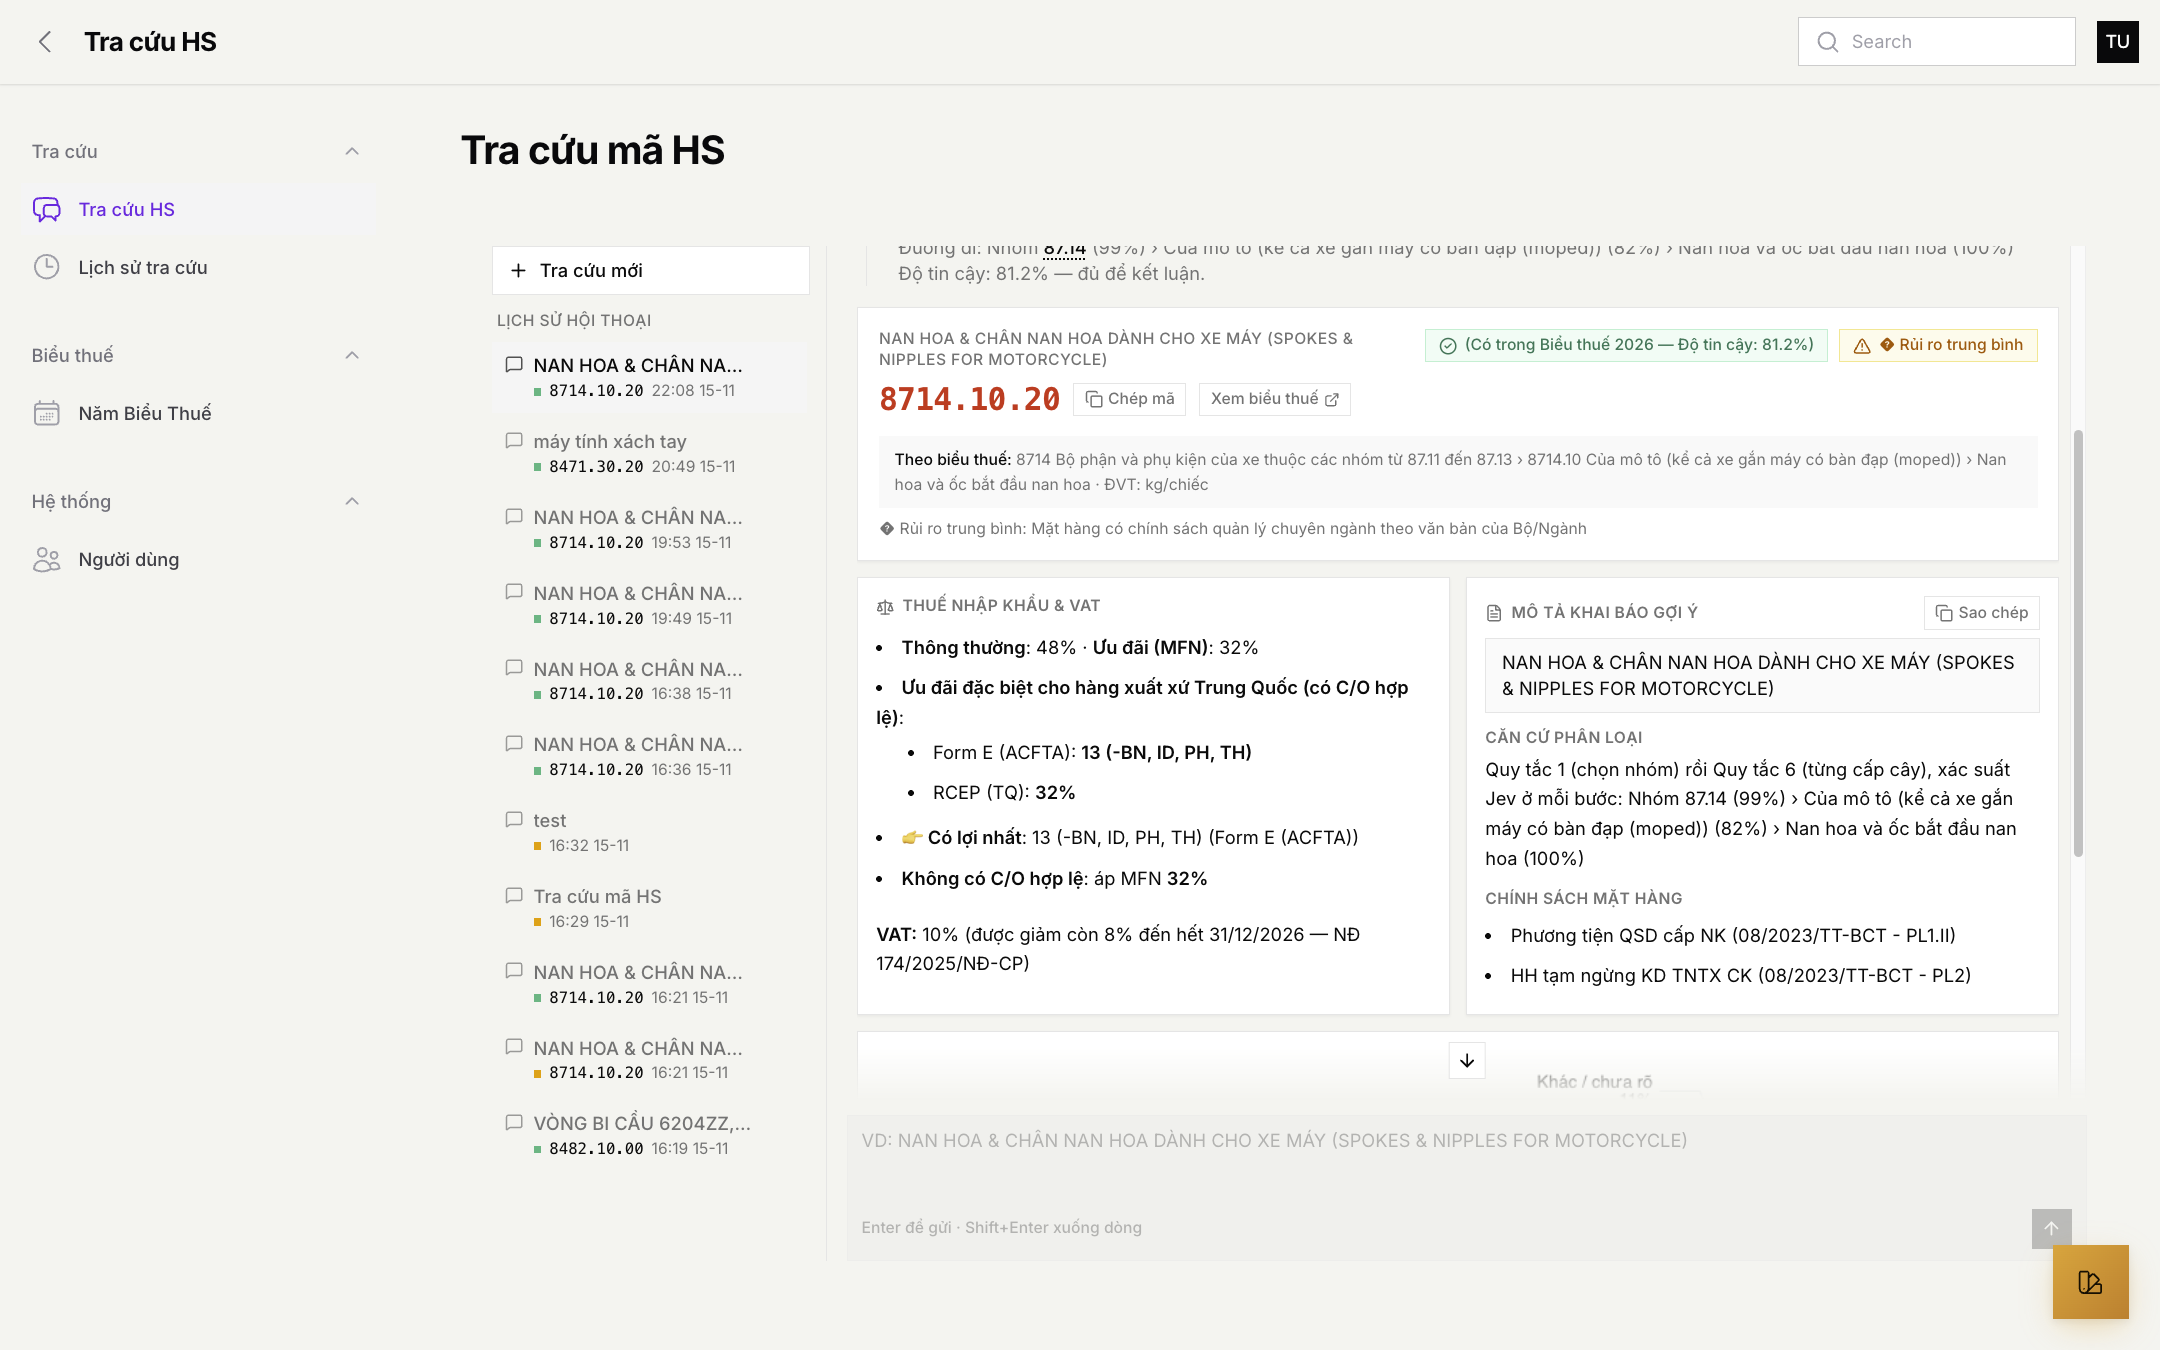
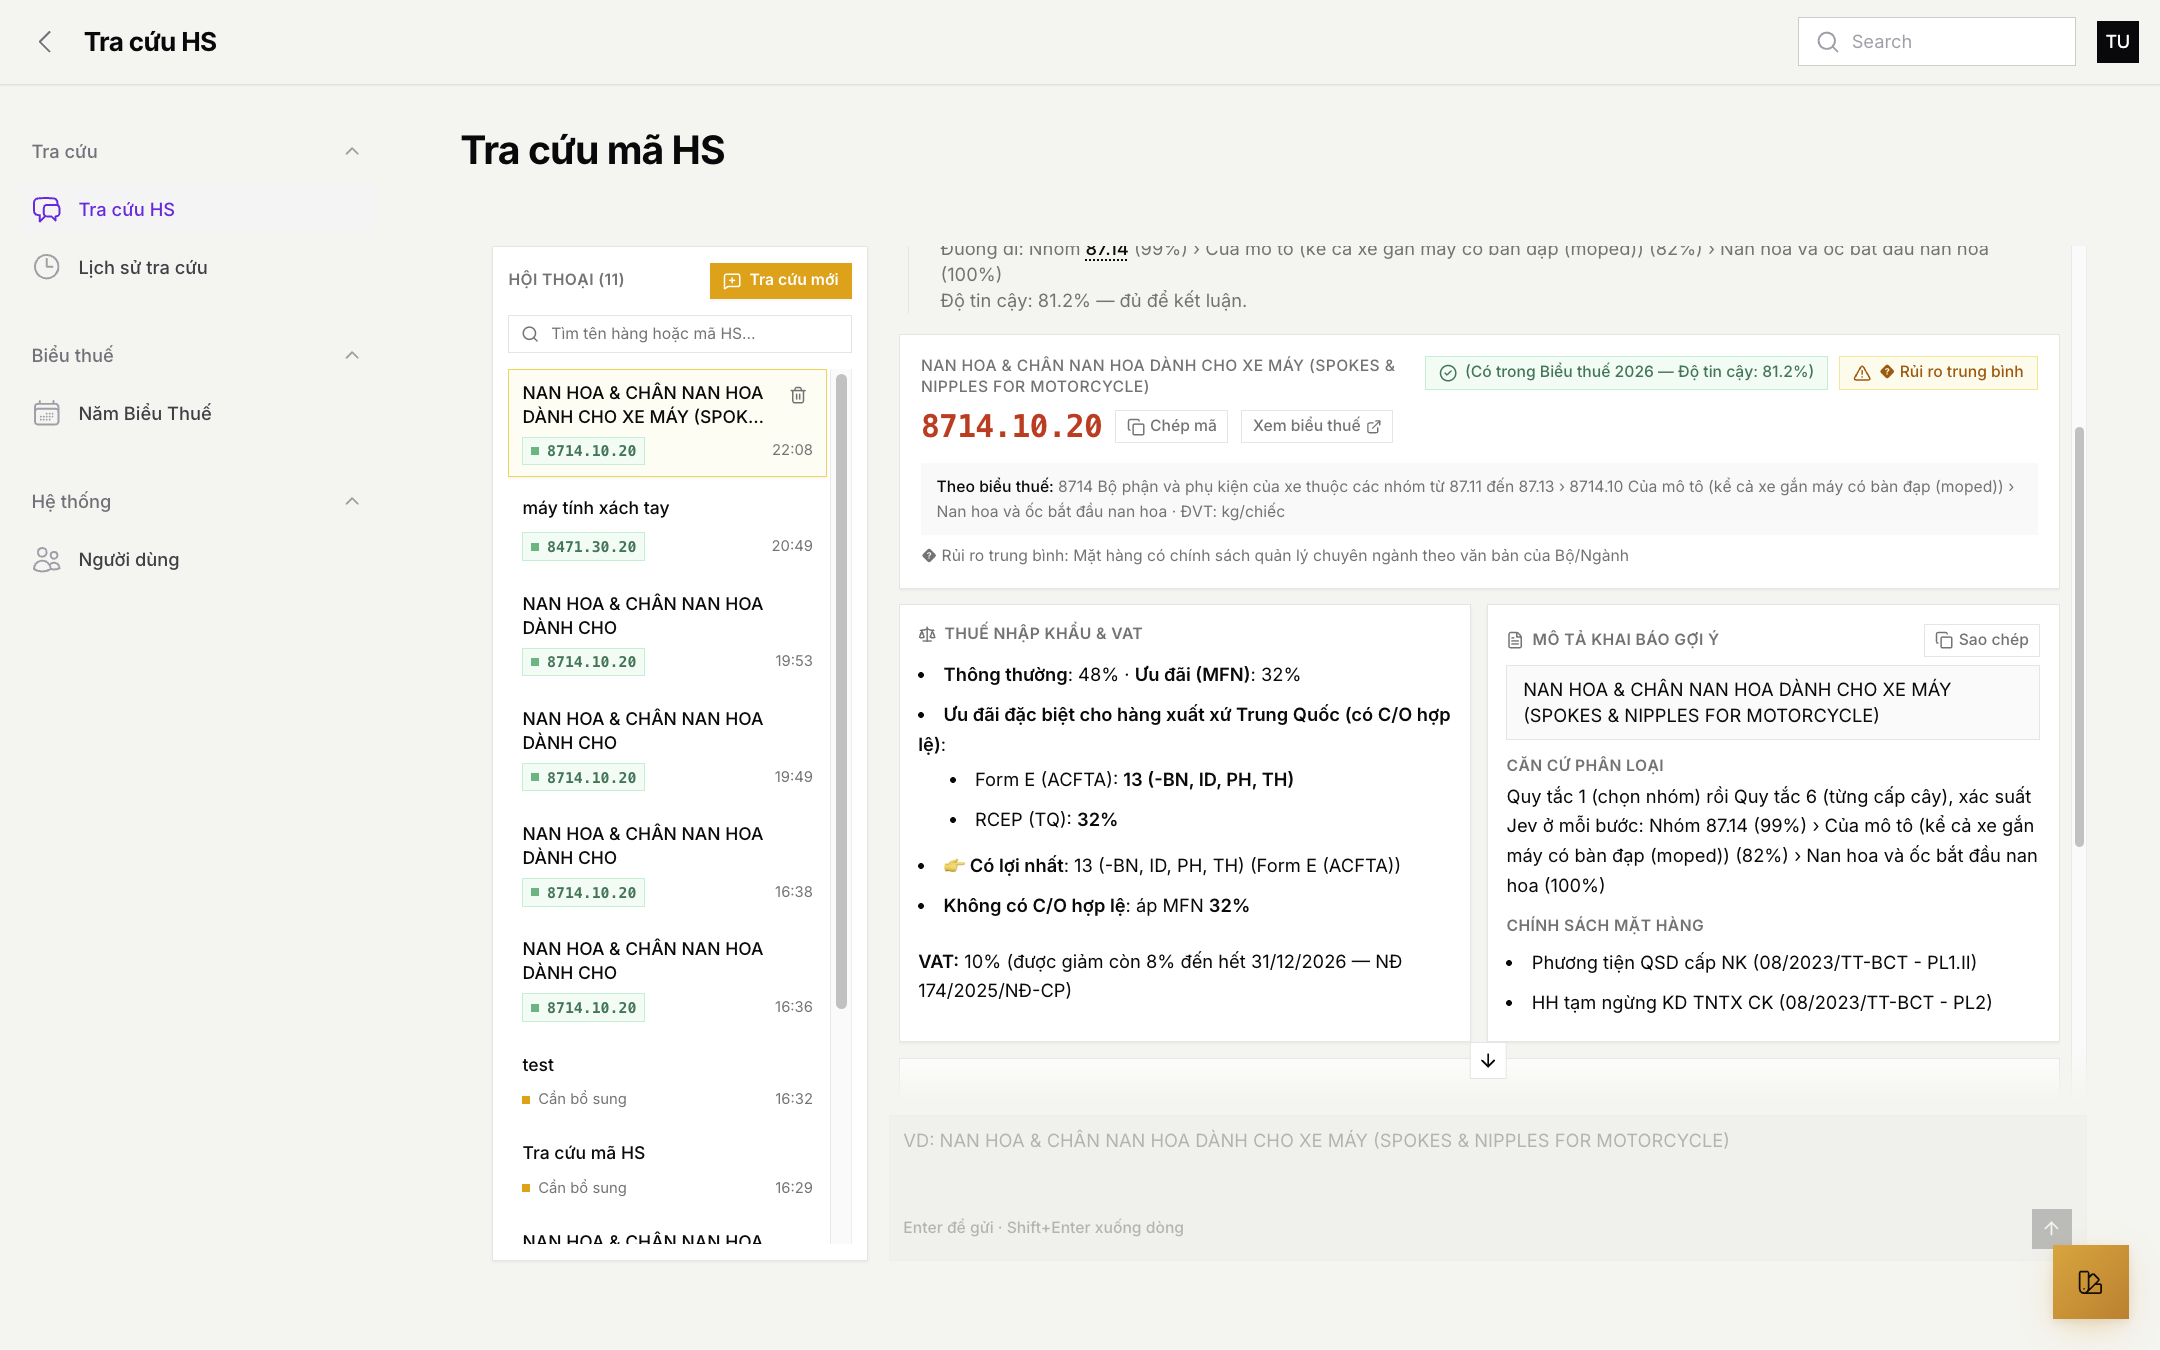
Polish conversation sidebar UI and update README screenshot

diff --git a/admin/resources/js/components/tra-cuu/conversation-sidebar.tsx b/admin/resources/js/components/tra-cuu/conversation-sidebar.tsx
@@ -1,13 +1,30 @@
-import { MessageSquareIcon, PlusIcon, Trash2Icon } from "lucide-react";
+import { useMemo, useState } from "react";
+import {
+    MessageSquarePlusIcon,
+    SearchIcon,
+    Trash2Icon,
+} from "lucide-react";
 import type { ConversationSummary } from "./types";
 
-const STATUS_DOT: Record<ConversationSummary["status"], string> = {
-    ok: "bg-emerald-500",
-    can_bo_sung: "bg-amber-500",
-    error: "bg-destructive",
+const STATUS_META: Record<
+    ConversationSummary["status"],
+    { dot: string; badge: string }
+> = {
+    ok: {
+        dot: "bg-emerald-500",
+        badge: "border-emerald-200 bg-emerald-50 text-emerald-700 dark:border-emerald-900/60 dark:bg-emerald-950/40 dark:text-emerald-300",
+    },
+    can_bo_sung: {
+        dot: "bg-amber-500",
+        badge: "border-amber-200 bg-amber-50 text-amber-700 dark:border-amber-900/60 dark:bg-amber-950/40 dark:text-amber-300",
+    },
+    error: {
+        dot: "bg-red-500",
+        badge: "border-red-200 bg-red-50 text-red-700 dark:border-red-900/60 dark:bg-red-950/40 dark:text-red-300",
+    },
 };
 
-function formatShortTime(iso: string | null): string {
+function formatTime(iso: string | null): string {
     if (!iso) {
         return "";
     }
@@ -15,11 +32,22 @@ function formatShortTime(iso: string | null): string {
     if (Number.isNaN(date.getTime())) {
         return "";
     }
-    return date.toLocaleString("vi-VN", {
+    const now = new Date();
+    const sameDay =
+        date.getFullYear() === now.getFullYear() &&
+        date.getMonth() === now.getMonth() &&
+        date.getDate() === now.getDate();
+
+    if (sameDay) {
+        return date.toLocaleTimeString("vi-VN", {
+            hour: "2-digit",
+            minute: "2-digit",
+        });
+    }
+
+    return date.toLocaleDateString("vi-VN", {
         day: "2-digit",
         month: "2-digit",
-        hour: "2-digit",
-        minute: "2-digit",
     });
 }
 
@@ -38,34 +66,63 @@ export function ConversationSidebar({
     onSelect: (id: string) => void;
     onDelete: (id: string) => void;
 }) {
-    return (
-        <aside className="flex w-64 shrink-0 flex-col gap-2 border-r border-border pr-3 max-md:hidden">
-            <button
-                type="button"
-                onClick={onNewChat}
-                className="flex w-full items-center gap-2 rounded-lg border border-border bg-background px-3 py-2 text-sm font-medium text-foreground transition hover:bg-muted"
-            >
-                <PlusIcon className="size-4 shrink-0" />
-                <span>Tra cứu mới</span>
-            </button>
+    const [query, setQuery] = useState("");
 
-            <div className="px-1 pt-1 text-xs font-medium uppercase tracking-wide text-muted-foreground">
-                Lịch sử hội thoại
+    const filtered = useMemo(() => {
+        const q = query.trim().toLowerCase();
+        if (!q) {
+            return conversations;
+        }
+        return conversations.filter(
+            (item) =>
+                item.title.toLowerCase().includes(q) ||
+                (item.ma_hs && item.ma_hs.toLowerCase().includes(q)),
+        );
+    }, [conversations, query]);
+
+    return (
+        <aside className="flex w-72 shrink-0 flex-col gap-3 rounded-xl border border-border bg-card p-3 shadow-xs max-md:hidden">
+            <div className="flex items-center justify-between gap-2">
+                <span className="text-xs font-semibold uppercase tracking-wide text-muted-foreground">
+                    Hội thoại ({conversations.length})
+                </span>
+                <button
+                    type="button"
+                    onClick={onNewChat}
+                    className="inline-flex items-center gap-1.5 rounded-lg bg-amber-500 px-2.5 py-1.5 text-xs font-semibold text-white shadow-xs transition hover:bg-amber-600"
+                >
+                    <MessageSquarePlusIcon className="size-3.5" />
+                    <span>Tra cứu mới</span>
+                </button>
             </div>
 
-            <div className="flex-1 space-y-1 overflow-y-auto pr-0.5">
+            <div className="relative">
+                <SearchIcon className="pointer-events-none absolute left-2.5 top-1/2 size-3.5 -translate-y-1/2 text-muted-foreground" />
+                <input
+                    type="search"
+                    value={query}
+                    onChange={(event) => setQuery(event.target.value)}
+                    placeholder="Tìm tên hàng hoặc mã HS…"
+                    className="w-full rounded-lg border border-border bg-background py-1.5 pl-8 pr-2.5 text-xs text-foreground placeholder:text-muted-foreground focus:border-amber-500 focus:outline-none"
+                />
+            </div>
+
+            <div className="flex-1 space-y-1.5 overflow-y-auto pr-0.5">
                 {loading && conversations.length === 0 && (
-                    <p className="px-2 py-4 text-xs text-muted-foreground">
+                    <p className="px-2 py-6 text-center text-xs text-muted-foreground">
                         Đang tải…
                     </p>
                 )}
-                {!loading && conversations.length === 0 && (
-                    <p className="px-2 py-4 text-xs text-muted-foreground">
-                        Chưa có cuộc hội thoại nào.
+                {!loading && filtered.length === 0 && (
+                    <p className="px-2 py-6 text-center text-xs text-muted-foreground">
+                        {query.trim()
+                            ? "Không tìm thấy hội thoại phù hợp."
+                            : "Chưa có cuộc hội thoại nào."}
                     </p>
                 )}
-                {conversations.map((item) => {
+                {filtered.map((item) => {
                     const isActive = item.id === activeId;
+                    const status = STATUS_META[item.status];
                     return (
                         <div
                             key={item.id}
@@ -78,43 +135,54 @@ export function ConversationSidebar({
                                     onSelect(item.id);
                                 }
                             }}
-                            className={`group flex cursor-pointer items-start gap-2 rounded-lg px-2.5 py-2 text-left transition ${
+                            className={`group relative cursor-pointer rounded-lg border px-2.5 py-2 transition ${
                                 isActive
-                                    ? "bg-muted text-foreground"
-                                    : "text-muted-foreground hover:bg-muted/60 hover:text-foreground"
+                                    ? "border-amber-300 bg-amber-50/70 shadow-xs dark:border-amber-700/60 dark:bg-amber-950/30"
+                                    : "border-transparent hover:border-border hover:bg-muted/50"
                             }`}
                         >
-                            <MessageSquareIcon className="mt-0.5 size-3.5 shrink-0 opacity-70" />
-                            <div className="min-w-0 flex-1">
-                                <div className="truncate text-sm font-medium">
+                            <div className="flex items-start justify-between gap-2">
+                                <div className="line-clamp-2 text-[13px] font-medium leading-snug text-foreground">
                                     {item.title}
                                 </div>
-                                <div className="mt-0.5 flex items-center gap-1.5 text-xs text-muted-foreground">
-                                    <span
-                                        className={`inline-block size-1.5 shrink-0 rounded-full ${STATUS_DOT[item.status]}`}
-                                    />
-                                    {item.ma_hs && (
-                                        <span className="font-mono font-medium text-foreground">
-                                            {item.ma_hs}
-                                        </span>
-                                    )}
-                                    <span className="truncate">
-                                        {formatShortTime(item.updated_at)}
-                                    </span>
-                                </div>
+                                <button
+                                    type="button"
+                                    aria-label="Xóa hội thoại"
+                                    title="Xóa hội thoại"
+                                    onClick={(event) => {
+                                        event.stopPropagation();
+                                        onDelete(item.id);
+                                    }}
+                                    className="shrink-0 rounded p-1 text-muted-foreground opacity-0 transition hover:bg-background hover:text-destructive group-hover:opacity-100"
+                                >
+                                    <Trash2Icon className="size-3.5" />
+                                </button>
                             </div>
-                            <button
-                                type="button"
-                                aria-label="Xóa hội thoại"
-                                title="Xóa hội thoại"
-                                onClick={(event) => {
-                                    event.stopPropagation();
-                                    onDelete(item.id);
-                                }}
-                                className="rounded p-1 opacity-0 transition hover:bg-background hover:text-destructive group-hover:opacity-100"
-                            >
-                                <Trash2Icon className="size-3.5" />
-                            </button>
+
+                            <div className="mt-1.5 flex items-center justify-between gap-2">
+                                {item.ma_hs ? (
+                                    <span
+                                        className={`inline-flex items-center gap-1.5 rounded-md border px-1.5 py-0.5 font-mono text-[11px] font-semibold ${status.badge}`}
+                                    >
+                                        <span
+                                            className={`size-1.5 rounded-full ${status.dot}`}
+                                        />
+                                        {item.ma_hs}
+                                    </span>
+                                ) : (
+                                    <span className="inline-flex items-center gap-1.5 text-[11px] text-muted-foreground">
+                                        <span
+                                            className={`size-1.5 rounded-full ${status.dot}`}
+                                        />
+                                        {item.status === "can_bo_sung"
+                                            ? "Cần bổ sung"
+                                            : "Lỗi"}
+                                    </span>
+                                )}
+                                <span className="text-[11px] text-muted-foreground">
+                                    {formatTime(item.updated_at)}
+                                </span>
+                            </div>
                         </div>
                     );
                 })}
